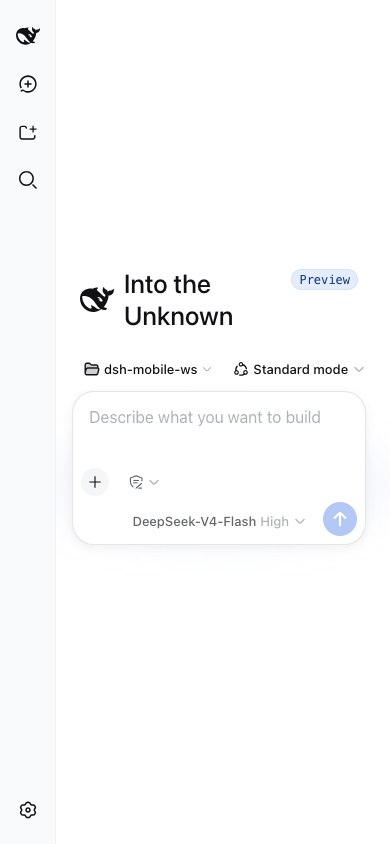
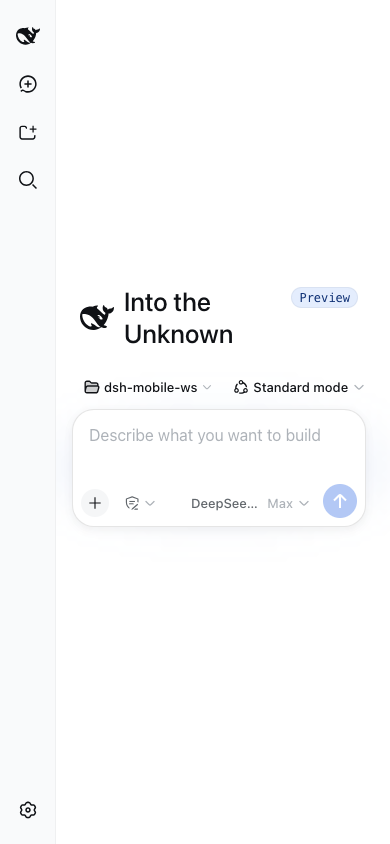
fix: one-row composer with model ellipsis, English-UI screenshots, dialog-free captures
- D2: 命令/access/model now share one row at <=767px; the model selector
  caps at calc(100vw - 258px) and its label ellipsizes (verified at
  360/390/430: no overlap, no wrap, row fits)
- selector-map: register _7KE1Ra_trigger/_triggerLabel/_triggerEffort and
  uV2eYG_primary
- e2e script: bilingual probes (EN/CN UI), one-row composer assertion
- screenshots re-captured in English UI with the API-key dialog suppressed
  from the source (restored provider config + env key): new-session,
  drawer before/after, settings, desktop
- version 0.1.5

diff --git a/src/client/shell.css.ts b/src/client/shell.css.ts
@@ -96,24 +96,48 @@ export const SHELL_CSS = /* css */ `
    The row is flex without wrap; the tools group (.uV2eYG_tools) has no
    min-width and shrinks to ~13px while the trailing group (flex:none) keeps
    its width, so the mode buttons spill under the model selector. Registered
-   hashed classes: selector-map.ts. */
+   hashed classes: selector-map.ts.
+   Layout contract on phones (≤767px): 命令 / access / model selector all on
+   ONE row; the model selector (._7KE1Ra_trigger) yields width and its label
+   truncates with an ellipsis instead of wrapping. */
 @media (max-width: 767px) {
   body[data-dsh-mobile] [data-slot="conversation.composer.bar"] .uV2eYG_row {
-    flex-wrap: wrap;
-    gap: 8px 12px;
+    flex-wrap: nowrap;
+    gap: 8px;
   }
   body[data-dsh-mobile] [data-slot="conversation.composer.bar"] .uV2eYG_tools {
-    flex: 1 1 auto;
+    flex: none;
     min-width: 0;
-    flex-wrap: wrap;
-    gap: 8px 12px;
+    gap: 8px;
   }
   body[data-dsh-mobile] [data-slot="conversation.composer.bar"] .uV2eYG_trailing {
-    flex: 1 1 auto;
+    flex: 0 1 auto;
     min-width: 0;
-    flex-wrap: wrap;
     justify-content: flex-end;
-    gap: 8px 12px;
+    gap: 8px;
+  }
+  body[data-dsh-mobile] [data-slot="conversation.composer.bar"] .uV2eYG_primary {
+    flex: none;
+  }
+  /* Model selector: fixed layout with a viewport-derived cap so 命令/access/
+     model stay on one row; the label ellipsizes when the cap bites.
+     Formula verified at 360/390/430 (row ≈ vw-98px, tools 80 + gaps 24 +
+     send 34 → trigger budget = vw-236px; 258 keeps 8-22px slack). */
+  body[data-dsh-mobile] [data-slot="conversation.composer.bar"] ._7KE1Ra_trigger {
+    flex: none;
+    min-width: 0;
+    max-width: calc(100vw - 258px);
+  }
+  body[data-dsh-mobile] [data-slot="conversation.composer.bar"] ._7KE1Ra_trigger ._7KE1Ra_triggerLabel {
+    flex: 0 1 auto;
+    min-width: 0;
+    overflow: hidden;
+    text-overflow: ellipsis;
+    white-space: nowrap;
+  }
+  body[data-dsh-mobile] [data-slot="conversation.composer.bar"] ._7KE1Ra_trigger ._7KE1Ra_triggerEffort {
+    flex: none;
+    white-space: nowrap;
   }
 }
 

diff --git a/src/client/selector-map.ts b/src/client/selector-map.ts
@@ -53,4 +53,30 @@ export const SELECTOR_MAP: SelectorEntry[] = [
     fallback:
       'Re-anchor structurally (last child of the row); the invariant is: trailing never overlaps tools at ≤767px.',
   },
+  {
+    selector: '._7KE1Ra_trigger',
+    dshVersion: '0.1.0-rc.6',
+    usedBy: 'D2 model selector truncation (shell.css.ts)',
+    reason:
+      'The model selector button (inside .uV2eYG_trailing) has no semantic anchor; it must shrink on one-row layouts.',
+    fallback:
+      'Re-anchor structurally (first button of the trailing group); invariant: 命令/access/model share one row at ≤767px.',
+  },
+  {
+    selector: '._7KE1Ra_triggerLabel',
+    dshVersion: '0.1.0-rc.6',
+    usedBy: 'D2 model label ellipsis (shell.css.ts)',
+    reason:
+      'The model name label inside the trigger needs min-width:0 + ellipsis to truncate; no semantic anchor exists.',
+    fallback:
+      'Re-anchor structurally (first span of the trigger); invariant: overflow shows an ellipsis, never wraps.',
+  },
+  {
+    selector: '._7KE1Ra_triggerEffort',
+    dshVersion: '0.1.0-rc.6',
+    usedBy: 'D2 model effort chip (shell.css.ts)',
+    reason: 'The effort chip must never shrink or wrap when the label truncates.',
+    fallback:
+      'Re-anchor structurally (second span of the trigger); invariant: the effort chip stays intact on one row.',
+  },
 ]
